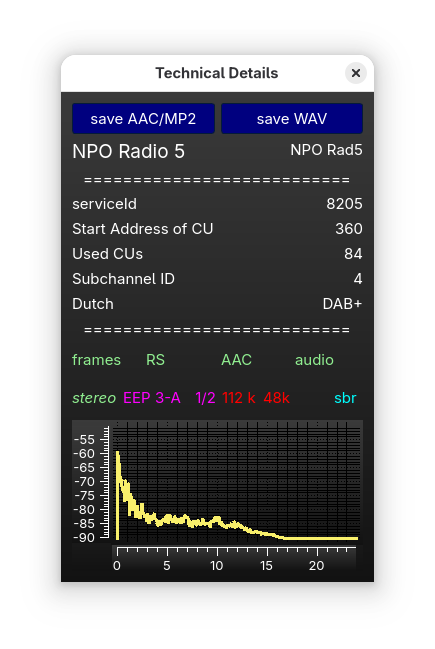
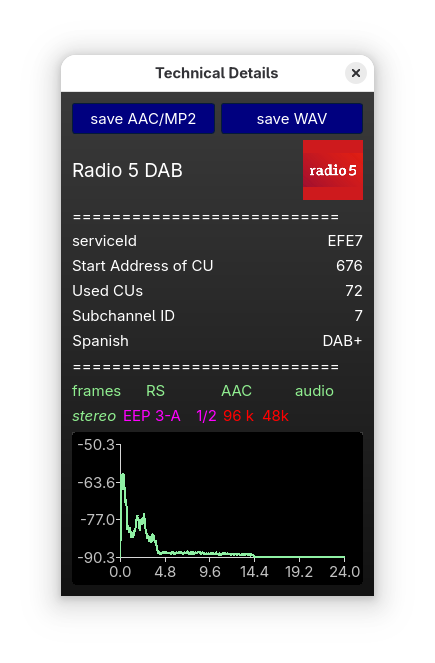
update of README

Changed region(s): [[0.1494, 0.0924, 0.8667, 0.8937]]

diff --git a/README.md b/README.md
@@ -23,7 +23,6 @@ Table of Contents
 * [Handling packet services](#handling-packet-services)
 * [Scan control](#scan-cntrol)
 * [Displaying TII data](#displaying-tii-data)
-* [EPG Handling and time tables](#epg-handling-and-time-tables)
 * [Journaline data](#journaline-data)
 * [Installation on Windows](#installation-on-Windows)
 * [Installation on Linux](#installation-on-Linux)
@@ -34,9 +33,10 @@ Table of Contents
 What is new in Qt-DAB-7.2
 ======================================================================
 
- - In Qt-DAB-7.2 does NOT use qwt anymore, for now the "compass" on the display for showing transmitters is not (yet) reimplemented in Qt-DAB and not visible; The feature "clicking with the right hand mouse button" on the scopes remains, i.e. in three clicks you can set blackground color, grid color or color of the data;
+ - In Qt-DAB-7.2 does NOT use qwt anymore. The "compass" on the display for showing transmitters  was a widget in Qwt and is not (yet) reimplemented in Qt-DAB and not visible.
+The feature *clicking with the right hand mouse button* on the scopes remains, i.e. in three clicks you can set background color, grid color and color of the data;
 
- - Qt-DAB-7.2 is usually compiled with Qt6 but can without problem be compiled using the  Qt5 framework using the "qmake/make" road. The CMakeLists,txt file cotains some Qt6 dependencies;
+ - Qt-DAB-7.2 is developed using Qt6 but can be compiled without problems using the Qt5 framework using "qmake -qt5" for generating a makefile. The CMakeLists.txt file  for using cmake contains some Qt6 dependencies;
 
 In QtDAB-7.2 some GUI elements were changed:
 
@@ -105,6 +105,15 @@ the EPG/SPI service is NOT shown in the services list.)
 
 EPG and timetables
 ------------------------------------------------------------------------
+
+If an EPG service is detected on starting a channel, Qt-DAB will attempt to start the service as  **background task**.  Data decoded by the EPG/SPI handler will be stored in a separate directory that is itself stored in the user's Qt-DAB-files directory.
+
+EPG/SPI data may consist of two parts: 
+ * icons for services. If on selecting a service an Icon is detected in the user's Qt-DAB-files directory, the Icon is made visible and takes the place of the **short name** of the service, both on the main window and the technical details window.
+
+![7.2](/res/read_me/bbc-3.png?raw=true)
+
+ * **Electronic Program Data**.
 Touching the **EPG** icon make a small window visible, the **timetable list**.
 The list shows the entries in the ensemblelist, coloured **green** is
 timetable data for the service could be detected, **red** otherwide.
@@ -119,13 +128,14 @@ time table data.
 (Note: our NPO is not that advanced that it provides EPG/SPI data, so the
 development and testing uses file input).
 
+Note however, that in general it may take some time before sufficient EPG/SPI data is read in for the above mentioned functionality to be operational.
+
 SNR
 -------------------------------------------------------------------------
 
-Clicking with the mouse on the SNR icon controls the visibility of the
-snr-window. The snr window shows  the SNR of the current signal over time.
-The setting is such that the screen shows app 2 minutes of snr measurements.
-It was - long time ago - included when I was exercizing different antenans.
+Clicking with the mouse on the SNR icon on the main window controls
+the visibility of the **snr-window**. The snr-window shows  the SNR of the current signal over time.
+The setting is such that the screen shows app 2 minutes of subsequent snr measurements. It was - long time ago - included when I was exercizing different antenans.
 
 ![7.2](/res/read_me/snr-window.png?raw=true)
 
@@ -133,7 +143,7 @@ Muting a signal
 --------------------------------------------------------------------------
 
 Clicking on the **speaker** symbol controls **muting** the audio signal.
-If set, a counter appears telling the remaining mute time. The mute time can be set on the configuration and control window. Of course, clicking on the speaker symbol when muting is "on", turns it off.
+If set, a counter appears telling the remaining mute time. The (maximum) mute time can be set on the configuration and control window. Of course, clicking on the speaker symbol when muting is "on", turns it off.
 
 The dynamic label.
 -------------------------------------------------------------------------
@@ -153,8 +163,9 @@ New is that - if available - the icon of the selected service is shown.
 
 ![7.2](/res/read_me/technical-window.png)
 
-As  said, the progress bars disappeared, and indicators now tell whether
+As  said, the progress bars disappeared:  indicators tell whether
 or not the steps in the transformation from raw data to audio are successfull.
+Eseentiallu, if all indicators are green there should be sound.
 
 The buttons
 ---------------------------------------------------------------------------
@@ -172,7 +183,7 @@ The buttons:
 The bottom line
 -------------------------------------------------------------------------
 
-The bottom line may show a transmittername. If the software detects the TII data it will show the name of the transmitter with the strongest signal here.
+The bottom line of the right half of the main window may show a transmittername. If the software detects the TII data it will show the name of the transmitter with the strongest signal here.
 Clicking on the line shows a table with the names of all transmitters detected.
 
 ![7.2](/res/read_me/new-dxDisplay.png?raw=true)
@@ -180,13 +191,11 @@ Clicking on the line shows a table with the names of all transmitters detected.
 The spectrumscope and its widgets
 --------------------------------------------------------------------------
 
-![7.2](/res/read_me/spectrum-scope.png)
-
 As mentioned, it was felt that the waterfall did not add much to understanding the characteritics of the signal, and it was removed from the window.
 
 The spectrumscope show on iys left side six different "scopes".
 Note that for each of these scopes the coloring may be set
-Clicking with the right hand mouse button a small window shows on which **three*  colors can be selected:
+Clicking with the right hand mouse button on the scope, shows a small window on which **three*  colors can be selected:
 
  * the first  selected color is the one for the background; I prefer black
  * the second selected one is the color for the "grid", 
@@ -194,26 +203,27 @@ Clicking with the right hand mouse button a small window shows on which **three*
 
 The spectrum
 -----------------------------------------------------------------------
+
+![7.2](/res/read_me/spectrum-scope.png)
+
 The spectrum of the incoming DAB signal is shown.
 To the right of this spectrum, one sees the
-**signal constellation**, i.e. the mapping from the complex signals
-onto their real and imaginary components. If the selector labeled
-"ncp" is set, the centerpoints of the 4 lobs is shown. 
+**signal constellation**, i.e. the mapping from the complex (i.e. "IQ") signals
+resulting from the decoder, onto their real and imaginary components. If the selector labeled "ncp" is set, the centerpoints of the 4 lobs is shown. 
 
 Below the constallation widget the name of the current channel as well as its frequency is shown.
 
 Below the "scope" area, some **quality indicators** of the DAB input signal are shown:
-
  * the **computed** correction on the frequency of the incoming signal, applied to the signal;
  * the remaining **freq error** (in Hz) after applying the correction;
  * the **SNR**, i.e.  the Signal-Noise Ratio in dB;
  * the **time offset**, the (relative) resulting error in sampling time in Hz;
  * the **clock offset**, telling the offset in the samplerate in Hz;
- * the IQ unbalance, i.e. the (average) difference in strength between the I and the Q part of the DAB signal;
+ * the IQ unbalance, i.e. the (average) difference in strength between the I and the Q part of the DAB  input signal;
 
 At the bottom of the window from left to right
- * a **sync** indicator,  **green** indicates that the software is synchronized with the incoming sample stream;
- * a **FIC** indicator, telling the (average) successrate of decoding the FIC part of the DAB frames (i.e. the data that specifies the payload);
+ * a **sync** indicator,  **green** indicates that the software is synchronized with the incoming sample stream (i.e. time synchronization);
+ * a **FIC** indicator, telling the (average) successrate of decoding the FIC part of the DAB frames (i.e. the data that implements a kind of "catalog" that describes the payload);
  * a **BER**, Bit Error Rate, telling (on average) how many input bits were
 wrong (and were corrected), per 1000 input bits (lower is better) when processing the FIC;
  * a **MER**, Modulation Error Rate, indicating the quality of the input signal (higher is better);
@@ -228,14 +238,12 @@ The correlation
 
 ![7.2](/res/read_me/qt-dab-correlation.png)
 
-The **correlation** scope shows the correlation between the incoming signal and
-predefined  data, i.e. the data as they should be.
 **Correlation** is used to identify the precise input sample in the input stream
 where the (relevant) data of the frame  starts.
 The picture shows more than one peaks, i.e. the signal from
-more than one transmitter is received. 
+more than one transmitter is received (after all, the same DAB (DAB+) signal is transmitted by a pretty large number of transmitters);
 The software chooses either the largest peak, or - if selected - the
-first peak one larger than a threshold.
+first peak one larger than a threshold. A setting on the configuration window controls this.
 
 The null scope
 ---------------------------------------------------------------------------
@@ -260,8 +268,8 @@ an encoding of the TII (Transmitter Identification Information) data.
 The **TII scope** shows a condensed form of the spectrum of the data
 in the  relevant **NULL** period, the TII data is encoded as a 4 out of 8 code. Indeed, four larger (and four smaller) peaks can be seen in the picture. In this picture the pattern shown is 0x1e.
 
-The DAB definition provides tables to map the recognized patterm
-to two 2 digit numbers, these numbers are used to identify the transmitter in a database, available in Qt-DAB.
+The DAB definition provides tables to map the recognized patterns
+on to two 2 digit numbers, these numbers are used to identify the transmitter in a database, available in Qt-DAB.
 
 The channel scope
 --------------------------------------------------------------------------
@@ -411,10 +419,10 @@ Qt-DAB also supports input using a network:
 Be aware that when using SDRconnect, Qt-DAB processes input with a rate of 2048000 Samples/second. When connected over a network to the SDRconnect server,
 it sends - with a samplerate of 2000000 (which is converted to the required rate of 2048000),  4 bytes per sample over the network. My wifi cannot handle that.
 
-The same applies to using the other servers.
-The **rtl_tcp** server sends 2 byte samples, i.e. a payload of 4096000 bytes per second; the 16 bit spyServer sends 4 byte samples (with an even higher rate), all leading to a transmission rate that a regular WiFi cannot handle.
-
 ![7.2](/res/read_me/sdrconnect.png?raw=true)
+
+The same restriction applies to using the other servers.
+The **rtl_tcp** server sends 2 byte samples, i.e. a payload of 4096000 bytes per second; the 16 bit spyServer sends 4 byte samples (with an even higher rate), all leading to a transmission rate that a regular WiFi cannot handle.
 
 Qt-DAB furthermore supports
   * **Soapy** (Linux only, not included in the AppImage), a renewed Soapy interface driver is even able to handle other samplerates than the required 2048000 (limited to the range 2000000 .. 4000000).
@@ -430,7 +438,7 @@ Furthermore, soapy now supports xml (i.e. ".uff") files to be written,
 although not in native format. 
 
 Qt-DAB obviously supports:
- * reading (and writing) ".sdr" type files from the input, where ".sdr" type is a form of ".wav" file with IQ samples with fixed inputrate of 2048000 samples per secnd. Qt-DAB generates such files. As an extension to classical **RIFF** files that are limited to 4 Gb, Qt-DAB is able to handle (i.e. generate and read)
+ * reading (and writing) ".sdr" type files from the input, where ".sdr" type is a form of ".wav" file with IQ samples with fixed inputrate of 2048000 samples per second. Qt-DAB generates such files. As an extension to classical **RIFF** files that are limited to 4 Gb, Qt-DAB is able to handle (i.e. generate and read)
 ".wav" files with a size  **larger than 4 Gb**, their type is **BW64**.
 
 ![7.2](/res/read_me/riff-reader-large.png?raw=true)
@@ -498,22 +506,6 @@ in the Qt-DAB repository.
 Unpack the zipped file "tiiFile.zip" and name it ".txdata.tii" in the
 home directory.
 
-As was shown earlier, one usually receives signals from more than
-one transmitter.
-While the line at the bottom on the right half of the Qt-DAB's main
-window  always shows the strongest transmitter,
-Qt-DAB can also show data of **all** identified transmitters on a
-small separate window (if selected), the **dxDisplay**.
-
-![6.10](/res/read_me/new-dxDisplay.png?raw=true)
-
-The picture shows that the ensemble, transmitted in channel 12C is "NPO",
-and it shows for each of the identified transmitters some data.
-The first column shows a mark for the strongest transmitter, the pattern is shown as well as the **TII values** (the mainId, and the subId) of
-the identified transmitters.
-Furthermore, the **azimuth** from and the distance to my home location,
-the power of the transmitter, the altitude (we are in a low-laying part of the country), and the height of the transmitting antenna.
-
 ![7.2](/res/read_me/QTmap.png?raw=true)
 
 Qt-DAB has as said - on the main window -  a button labeled **http**,
@@ -548,37 +540,6 @@ reading in a generated map file, and displaying it, per country,
 per channel, per ensemble or completely.
 
 ![6.10](/res/read_me/map-viewer.png?raw=true)
-
-EPG Handling and time tables
-=================================================================
-
-While not here in the Netherlands, in many other countries an ensemble
-contains an **EPG** or **SPI** service.
-Such a service contains data for service logo's and  uduslly for **time tables**.
-If such a service is detected within a handful of seconds after the start of the channel, Qt-DAB will attempt to start the service as  **background task**.
-If the EPG/SPI service was identified late, the service can be started manually and will also run as background task.
-
-Data decoded by this service will be stored in a separate directory that is itself stored in the user's Qt-DAB-files directory.
-
-![6.10](/res/read_me/bbc-3.png?raw=true)
-
-If sufficient data is read in that directory, the software **might** find a service logo and a time table for the selected service.
-The logo - if found - is shown on the main window (picture above) next to the service name.
-The time table - if found - is made visible by touching the small icon
-on the main window labeled "EPG".
-(This selector is chosen since it is certain that if the icon is visible, there is at least an EPG/SPI service)
-
-![6.10](/res/read_me/timetable-catalog.png?raw=true)
-
-The timetable catalog shows for which channels their is **SOME** timetable data.
-
-![6.10](/res/read_me/timetable.png?raw=true)
-
-If no data for the time table is found, the time table will say so
-
-![6.10](/res/read_me/timeTable-notfound.png?raw=true)
-
-The timeTable window contains a **next** and **prev** button to scan through different dates. Older pages are not removed by default, selecting a page and touching the "remove" button will remove the currently selected page.
 
 Journaline data
 ================================================================
